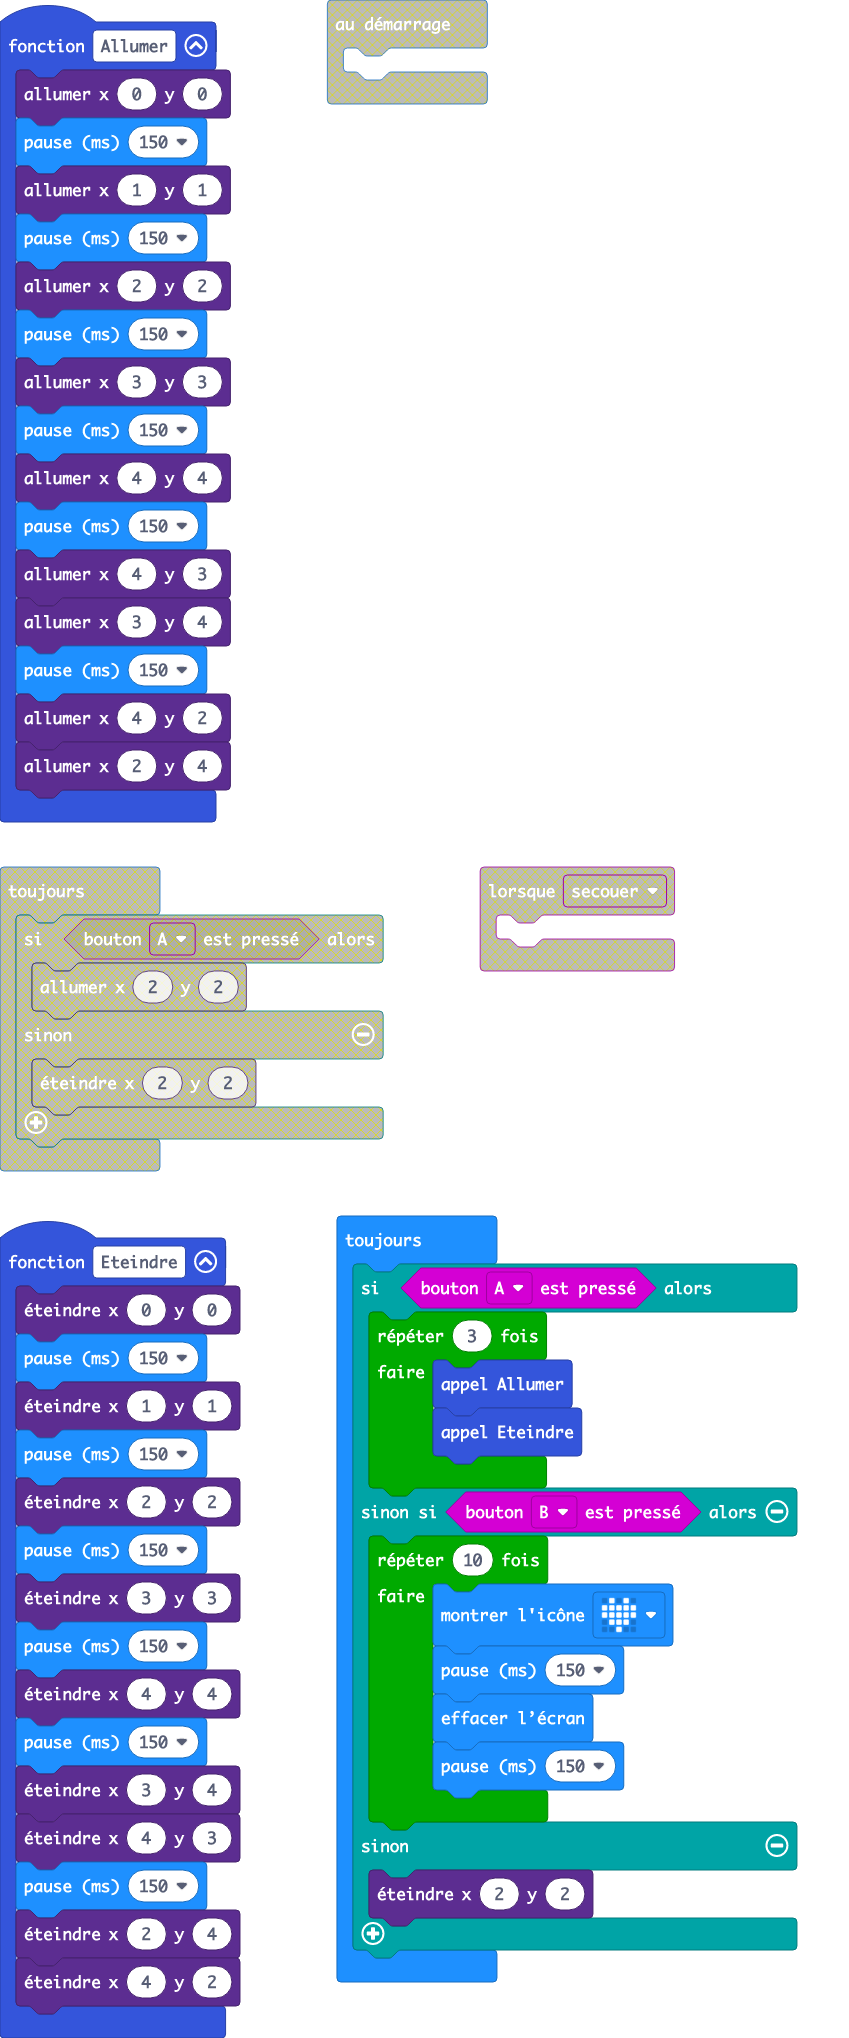
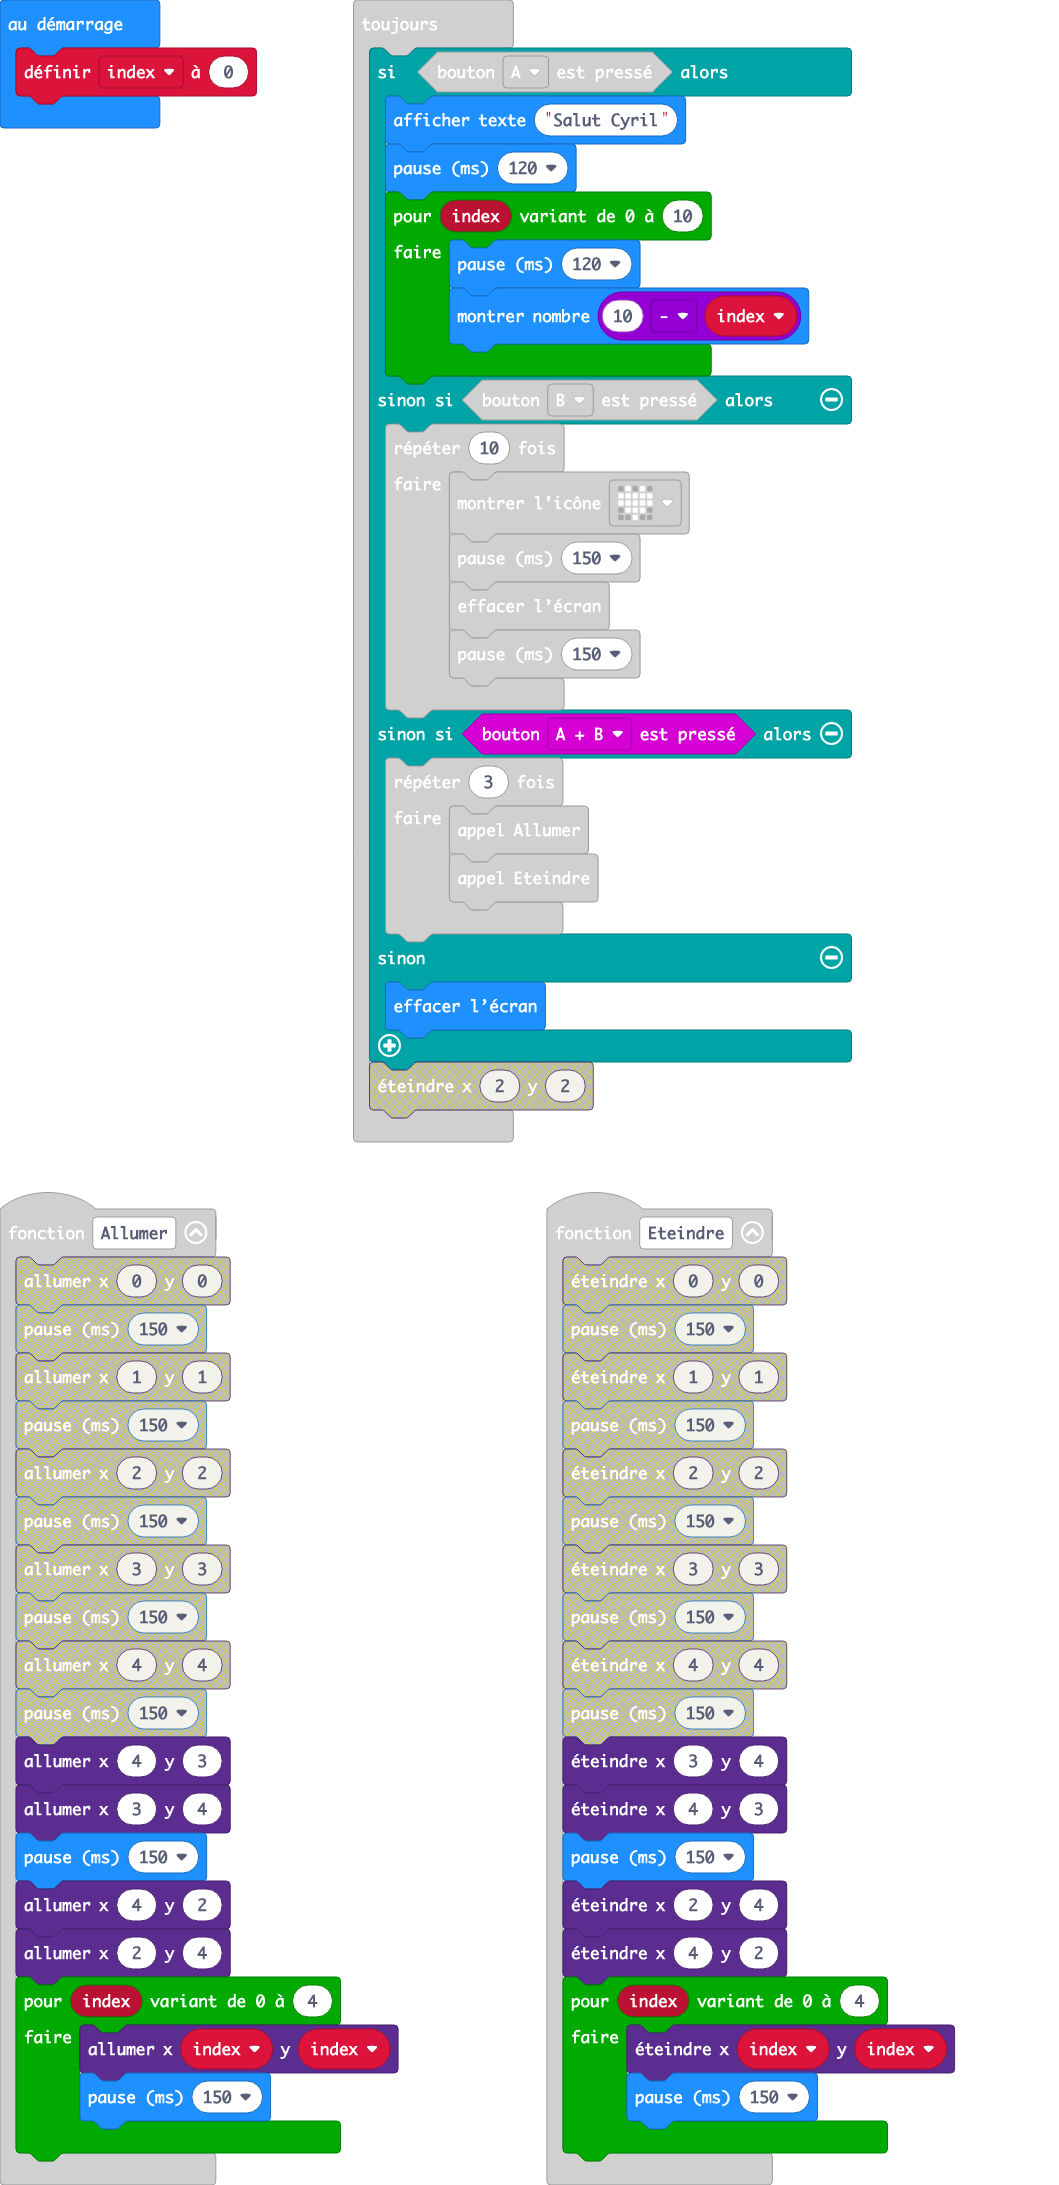
Simplification, remplacement par des boucles

diff --git a/main.ts b/main.ts
@@ -1,14 +1,8 @@
 function Eteindre () {
-    led.unplot(0, 0)
-    basic.pause(150)
-    led.unplot(1, 1)
-    basic.pause(150)
-    led.unplot(2, 2)
-    basic.pause(150)
-    led.unplot(3, 3)
-    basic.pause(150)
-    led.unplot(4, 4)
-    basic.pause(150)
+    for (let index = 0; index <= 4; index++) {
+        led.unplot(index, index)
+        basic.pause(150)
+    }
     led.unplot(3, 4)
     led.unplot(4, 3)
     basic.pause(150)
@@ -16,36 +10,38 @@ function Eteindre () {
     led.unplot(4, 2)
 }
 function Allumer () {
-    led.plot(0, 0)
-    basic.pause(150)
-    led.plot(1, 1)
-    basic.pause(150)
-    led.plot(2, 2)
-    basic.pause(150)
-    led.plot(3, 3)
-    basic.pause(150)
-    led.plot(4, 4)
-    basic.pause(150)
+    for (let index = 0; index <= 4; index++) {
+        led.plot(index, index)
+        basic.pause(150)
+    }
     led.plot(4, 3)
     led.plot(3, 4)
     basic.pause(150)
     led.plot(4, 2)
     led.plot(2, 4)
 }
+let index = 0
 basic.forever(function () {
     if (input.buttonIsPressed(Button.A)) {
-        for (let index = 0; index < 3; index++) {
-            Allumer()
-            Eteindre()
+        basic.showString("Salut Cyril")
+        basic.pause(120)
+        for (let index = 0; index <= 10; index++) {
+            basic.pause(120)
+            basic.showNumber(10 - index)
         }
     } else if (input.buttonIsPressed(Button.B)) {
-        for (let index = 0; index < 10; index++) {
+        for (let index2 = 0; index2 < 10; index2++) {
             basic.showIcon(IconNames.Heart)
             basic.pause(150)
             basic.clearScreen()
             basic.pause(150)
         }
+    } else if (input.buttonIsPressed(Button.AB)) {
+        for (let index2 = 0; index2 < 3; index2++) {
+            Allumer()
+            Eteindre()
+        }
     } else {
-        led.unplot(2, 2)
+        basic.clearScreen()
     }
 })

diff --git a/main.py b/main.py
@@ -1,25 +1,54 @@
+def Eteindre():
+    led.unplot(0, 0)
+    basic.pause(150)
+    led.unplot(1, 1)
+    basic.pause(150)
+    led.unplot(2, 2)
+    basic.pause(150)
+    led.unplot(3, 3)
+    basic.pause(150)
+    led.unplot(4, 4)
+    basic.pause(150)
+    led.unplot(3, 4)
+    led.unplot(4, 3)
+    basic.pause(150)
+    led.unplot(2, 4)
+    led.unplot(4, 2)
+def Allumer():
+    led.plot(0, 0)
+    basic.pause(150)
+    led.plot(1, 1)
+    basic.pause(150)
+    led.plot(2, 2)
+    basic.pause(150)
+    led.plot(3, 3)
+    basic.pause(150)
+    led.plot(4, 4)
+    basic.pause(150)
+    led.plot(4, 3)
+    led.plot(3, 4)
+    basic.pause(150)
+    led.plot(4, 2)
+    led.plot(2, 4)
+index = 0
+
 def on_forever():
     if input.button_is_pressed(Button.A):
-        for index in range(4):
-            led.plot(0, 0)
-            basic.pause(200)
-            led.plot(1, 1)
-            basic.pause(200)
-            led.plot(2, 2)
-            basic.pause(200)
-            led.plot(3, 3)
-            basic.pause(200)
-            led.plot(4, 4)
-            basic.pause(200)
-            led.unplot(0, 0)
-            basic.pause(200)
-            led.unplot(1, 1)
-            basic.pause(200)
-            led.unplot(2, 2)
-            basic.pause(200)
-            led.unplot(3, 3)
-            basic.pause(200)
-            led.unplot(4, 4)
+        basic.show_string("Salut Cyril")
+        basic.pause(120)
+        for index2 in range(11):
+            basic.pause(120)
+            basic.show_number(10 - index2)
+    elif input.button_is_pressed(Button.B):
+        for index22 in range(10):
+            basic.show_icon(IconNames.HEART)
+            basic.pause(150)
+            basic.clear_screen()
+            basic.pause(150)
+    elif input.button_is_pressed(Button.AB):
+        for index23 in range(3):
+            Allumer()
+            Eteindre()
     else:
-        led.unplot(2, 2)
+        basic.clear_screen()
 basic.forever(on_forever)
